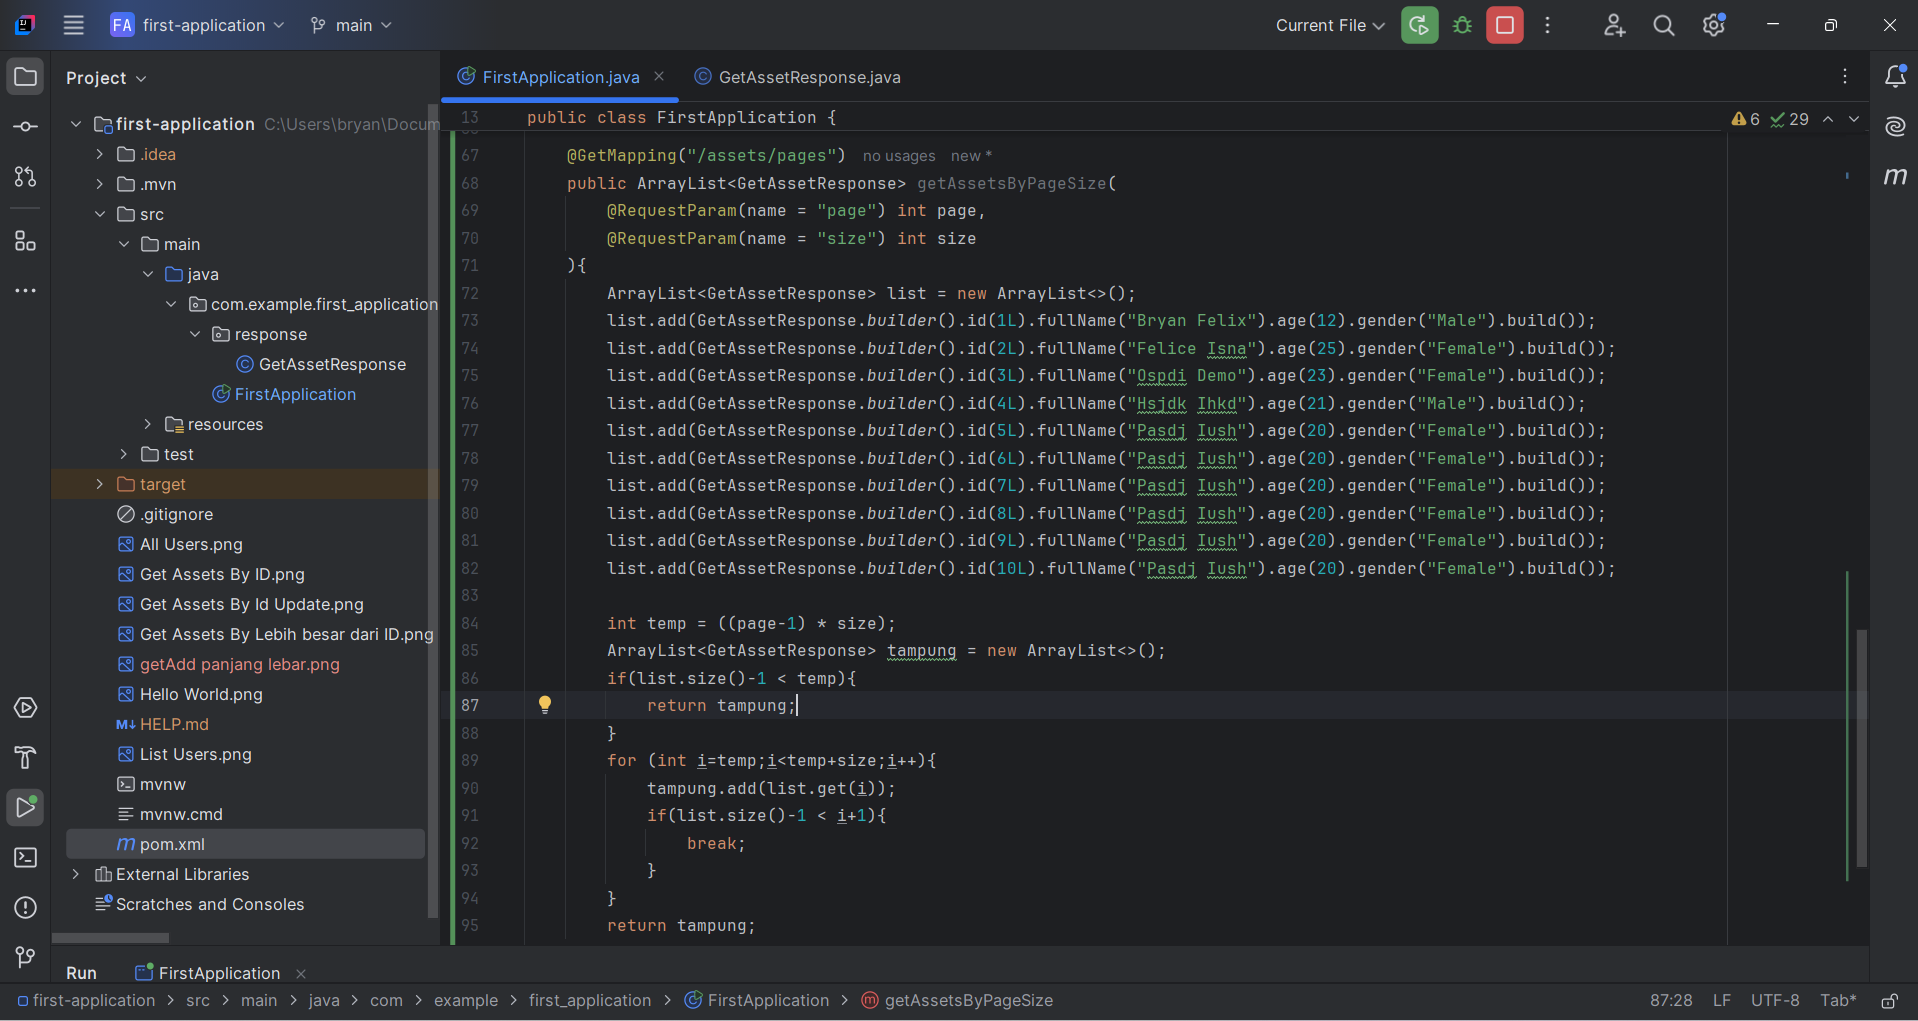
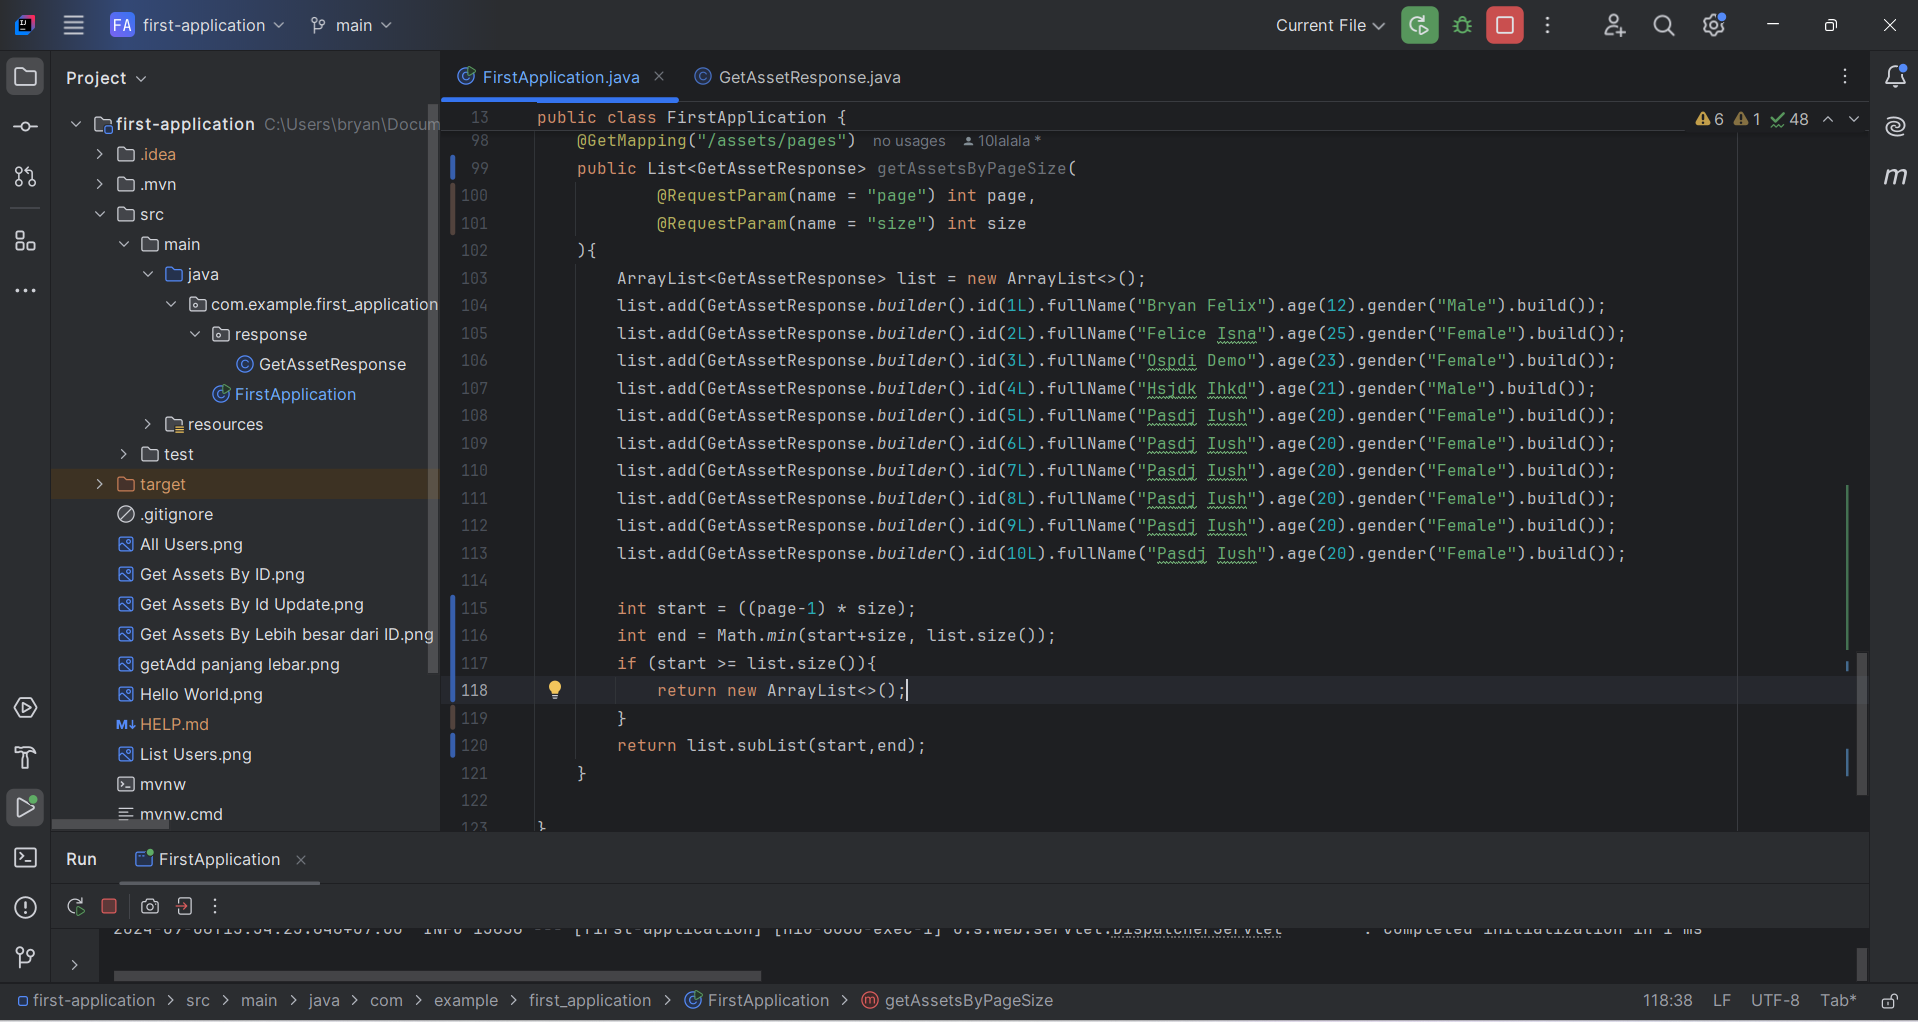
Pages and Sizes Update

diff --git a/exercise/day-2/section-1/first-application/src/main/java/com/example/first_application/FirstApplication.java b/exercise/day-2/section-1/first-application/src/main/java/com/example/first_application/FirstApplication.java
@@ -64,10 +64,41 @@ public class FirstApplication {
 		return String.valueOf(panjang+lebar);
 	}
 
+//	@GetMapping("/assets/pages")
+//	public ArrayList<GetAssetResponse> getAssetsByPageSize(
+//		@RequestParam(name = "page") int page,
+//		@RequestParam(name = "size") int size
+//	){
+//		ArrayList<GetAssetResponse> list = new ArrayList<>();
+//		list.add(GetAssetResponse.builder().id(1L).fullName("Bryan Felix").age(12).gender("Male").build());
+//		list.add(GetAssetResponse.builder().id(2L).fullName("Felice Isna").age(25).gender("Female").build());
+//		list.add(GetAssetResponse.builder().id(3L).fullName("Ospdi Demo").age(23).gender("Female").build());
+//		list.add(GetAssetResponse.builder().id(4L).fullName("Hsjdk Ihkd").age(21).gender("Male").build());
+//		list.add(GetAssetResponse.builder().id(5L).fullName("Pasdj Iush").age(20).gender("Female").build());
+//		list.add(GetAssetResponse.builder().id(6L).fullName("Pasdj Iush").age(20).gender("Female").build());
+//		list.add(GetAssetResponse.builder().id(7L).fullName("Pasdj Iush").age(20).gender("Female").build());
+//		list.add(GetAssetResponse.builder().id(8L).fullName("Pasdj Iush").age(20).gender("Female").build());
+//		list.add(GetAssetResponse.builder().id(9L).fullName("Pasdj Iush").age(20).gender("Female").build());
+//		list.add(GetAssetResponse.builder().id(10L).fullName("Pasdj Iush").age(20).gender("Female").build());
+//
+//		int temp = ((page-1) * size);
+//		ArrayList<GetAssetResponse> tampung = new ArrayList<>();
+//		if(list.size()-1 < temp){
+//			return tampung;
+//		}
+//		for (int i=temp;i<temp+size;i++){
+//			tampung.add(list.get(i));
+//			if(list.size()-1 < i+1){
+//				break;
+//			}
+//		}
+//		return tampung;
+//	}
+
 	@GetMapping("/assets/pages")
-	public ArrayList<GetAssetResponse> getAssetsByPageSize(
-		@RequestParam(name = "page") int page,
-		@RequestParam(name = "size") int size
+	public List<GetAssetResponse> getAssetsByPageSize(
+			@RequestParam(name = "page") int page,
+			@RequestParam(name = "size") int size
 	){
 		ArrayList<GetAssetResponse> list = new ArrayList<>();
 		list.add(GetAssetResponse.builder().id(1L).fullName("Bryan Felix").age(12).gender("Male").build());
@@ -81,18 +112,12 @@ public class FirstApplication {
 		list.add(GetAssetResponse.builder().id(9L).fullName("Pasdj Iush").age(20).gender("Female").build());
 		list.add(GetAssetResponse.builder().id(10L).fullName("Pasdj Iush").age(20).gender("Female").build());
 
-		int temp = ((page-1) * size);
-		ArrayList<GetAssetResponse> tampung = new ArrayList<>();
-		if(list.size()-1 < temp){
-			return tampung;
+		int start = ((page-1) * size);
+		int end = Math.min(start+size, list.size());
+		if (start >= list.size()){
+			return new ArrayList<>();
 		}
-		for (int i=temp;i<temp+size;i++){
-			tampung.add(list.get(i));
-			if(list.size()-1 < i+1){
-				break;
-			}
-		}
-		return tampung;
+		return list.subList(start,end);
 	}
 
 }
